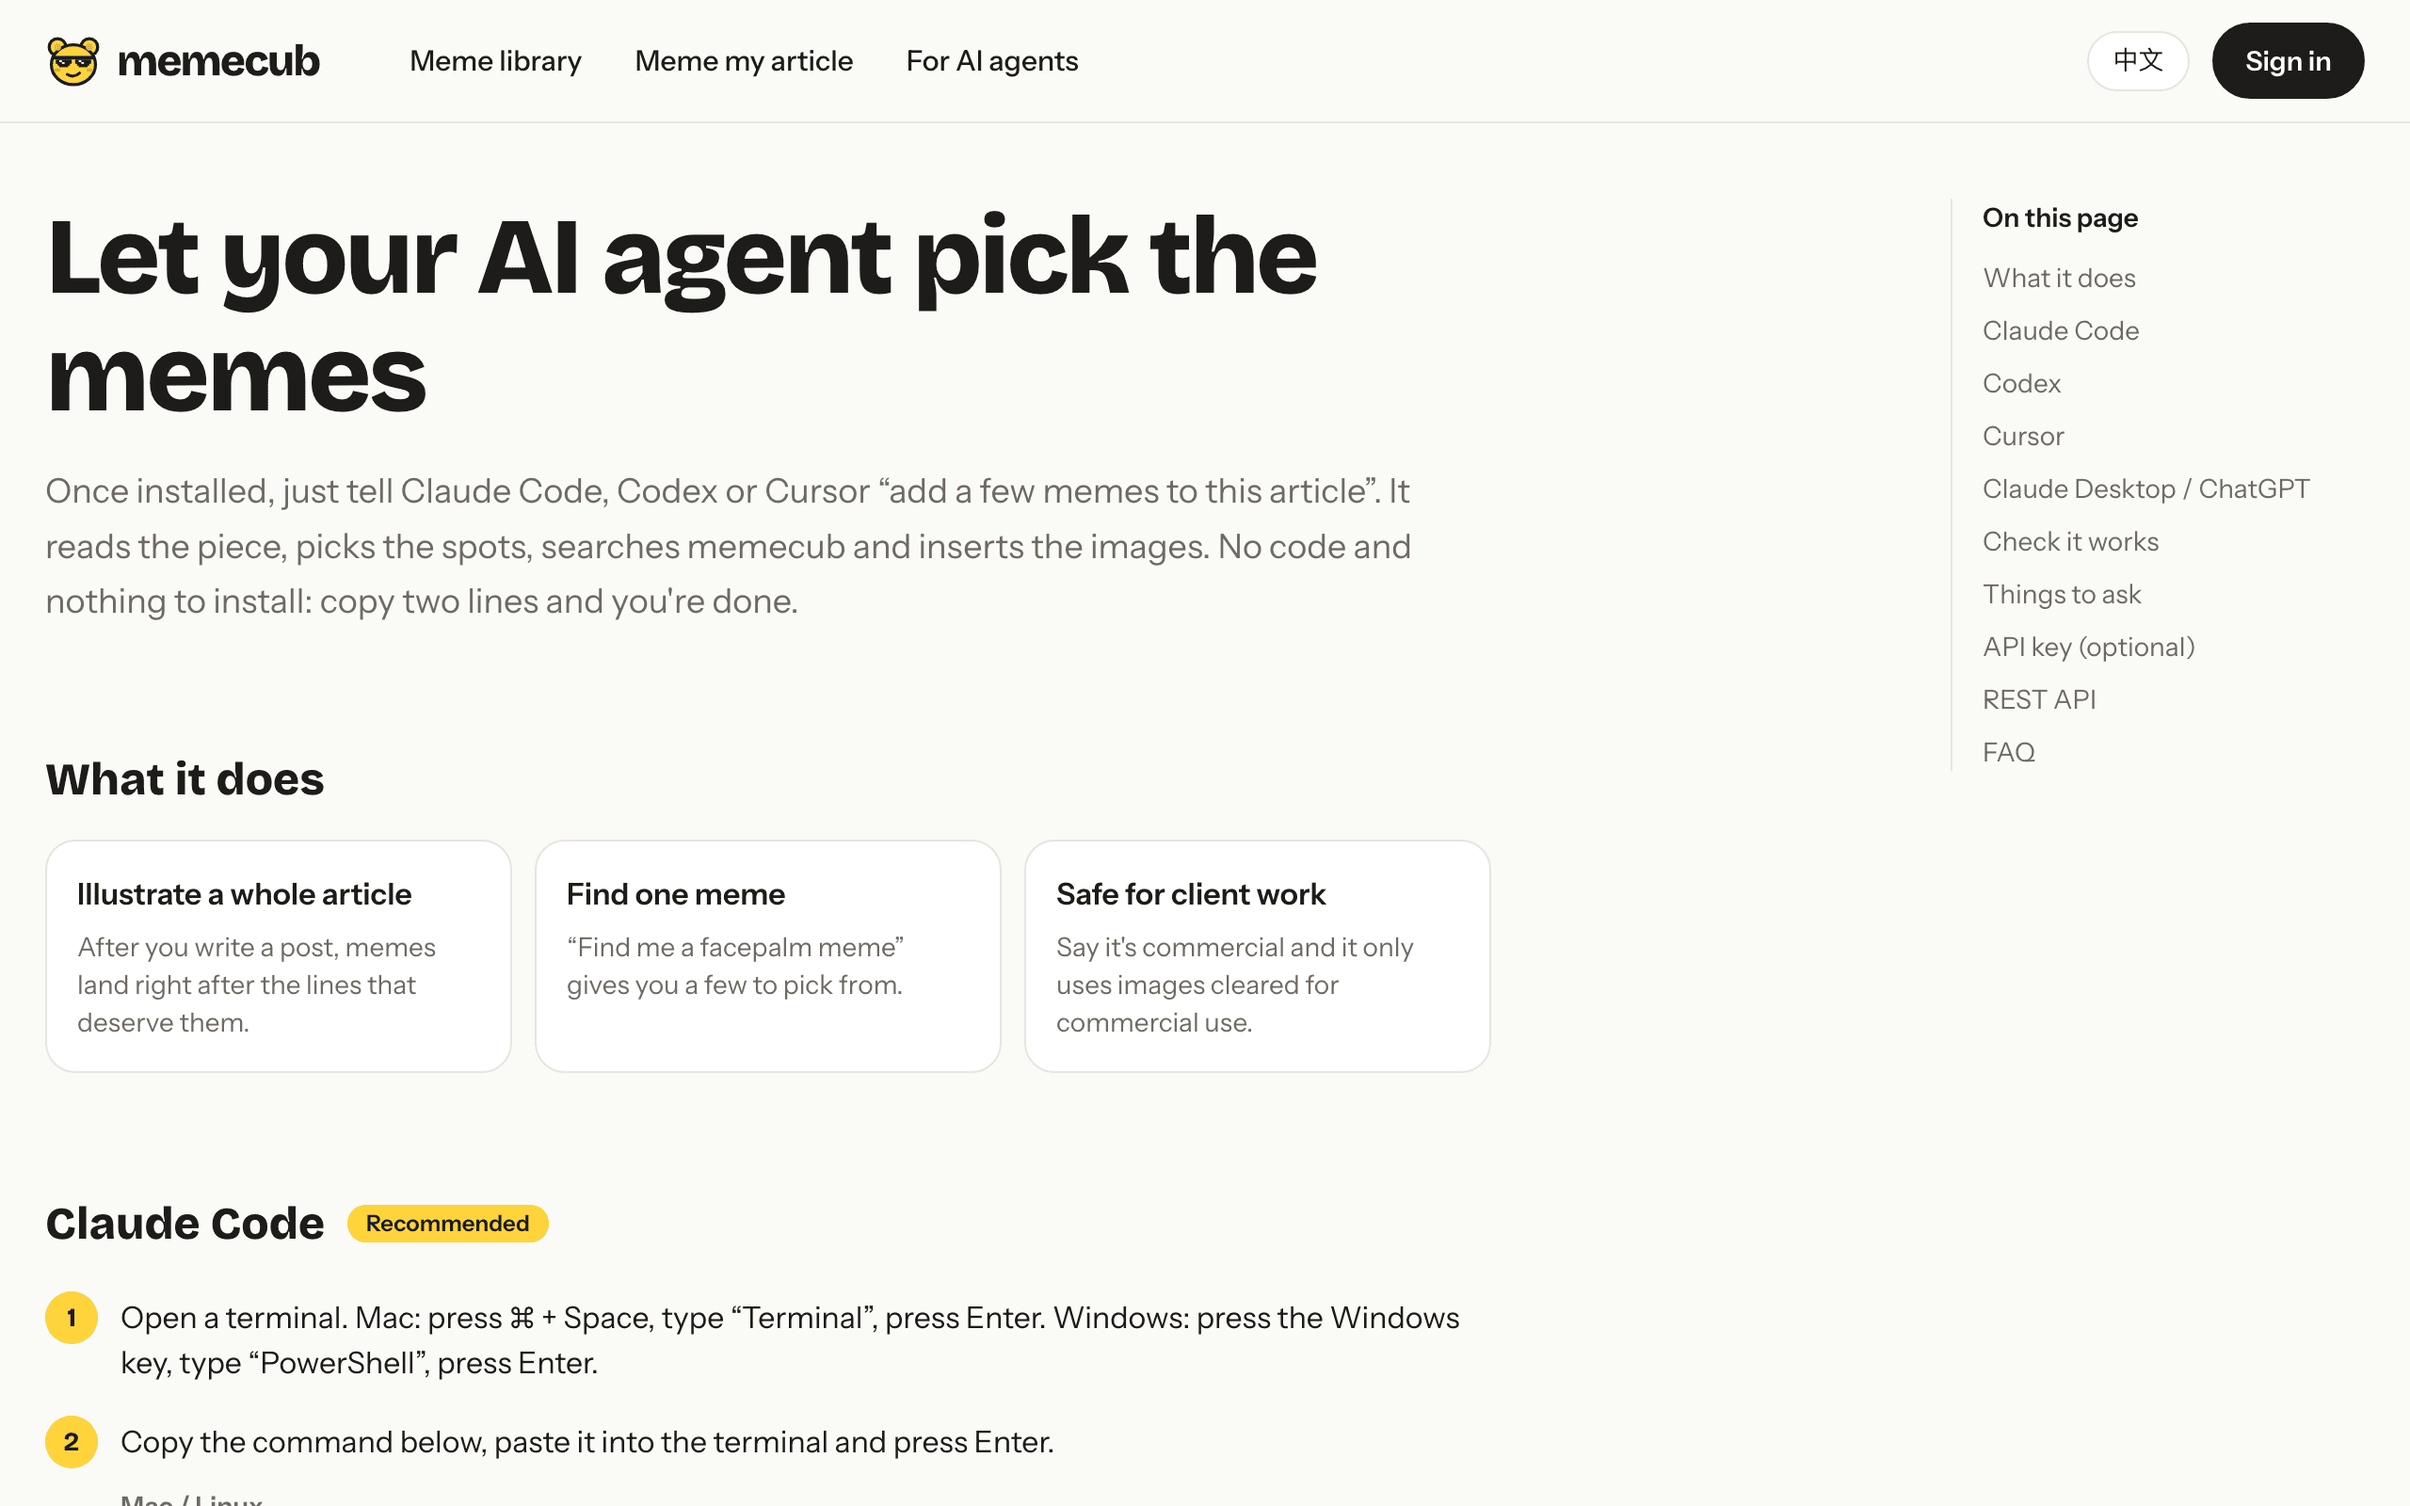
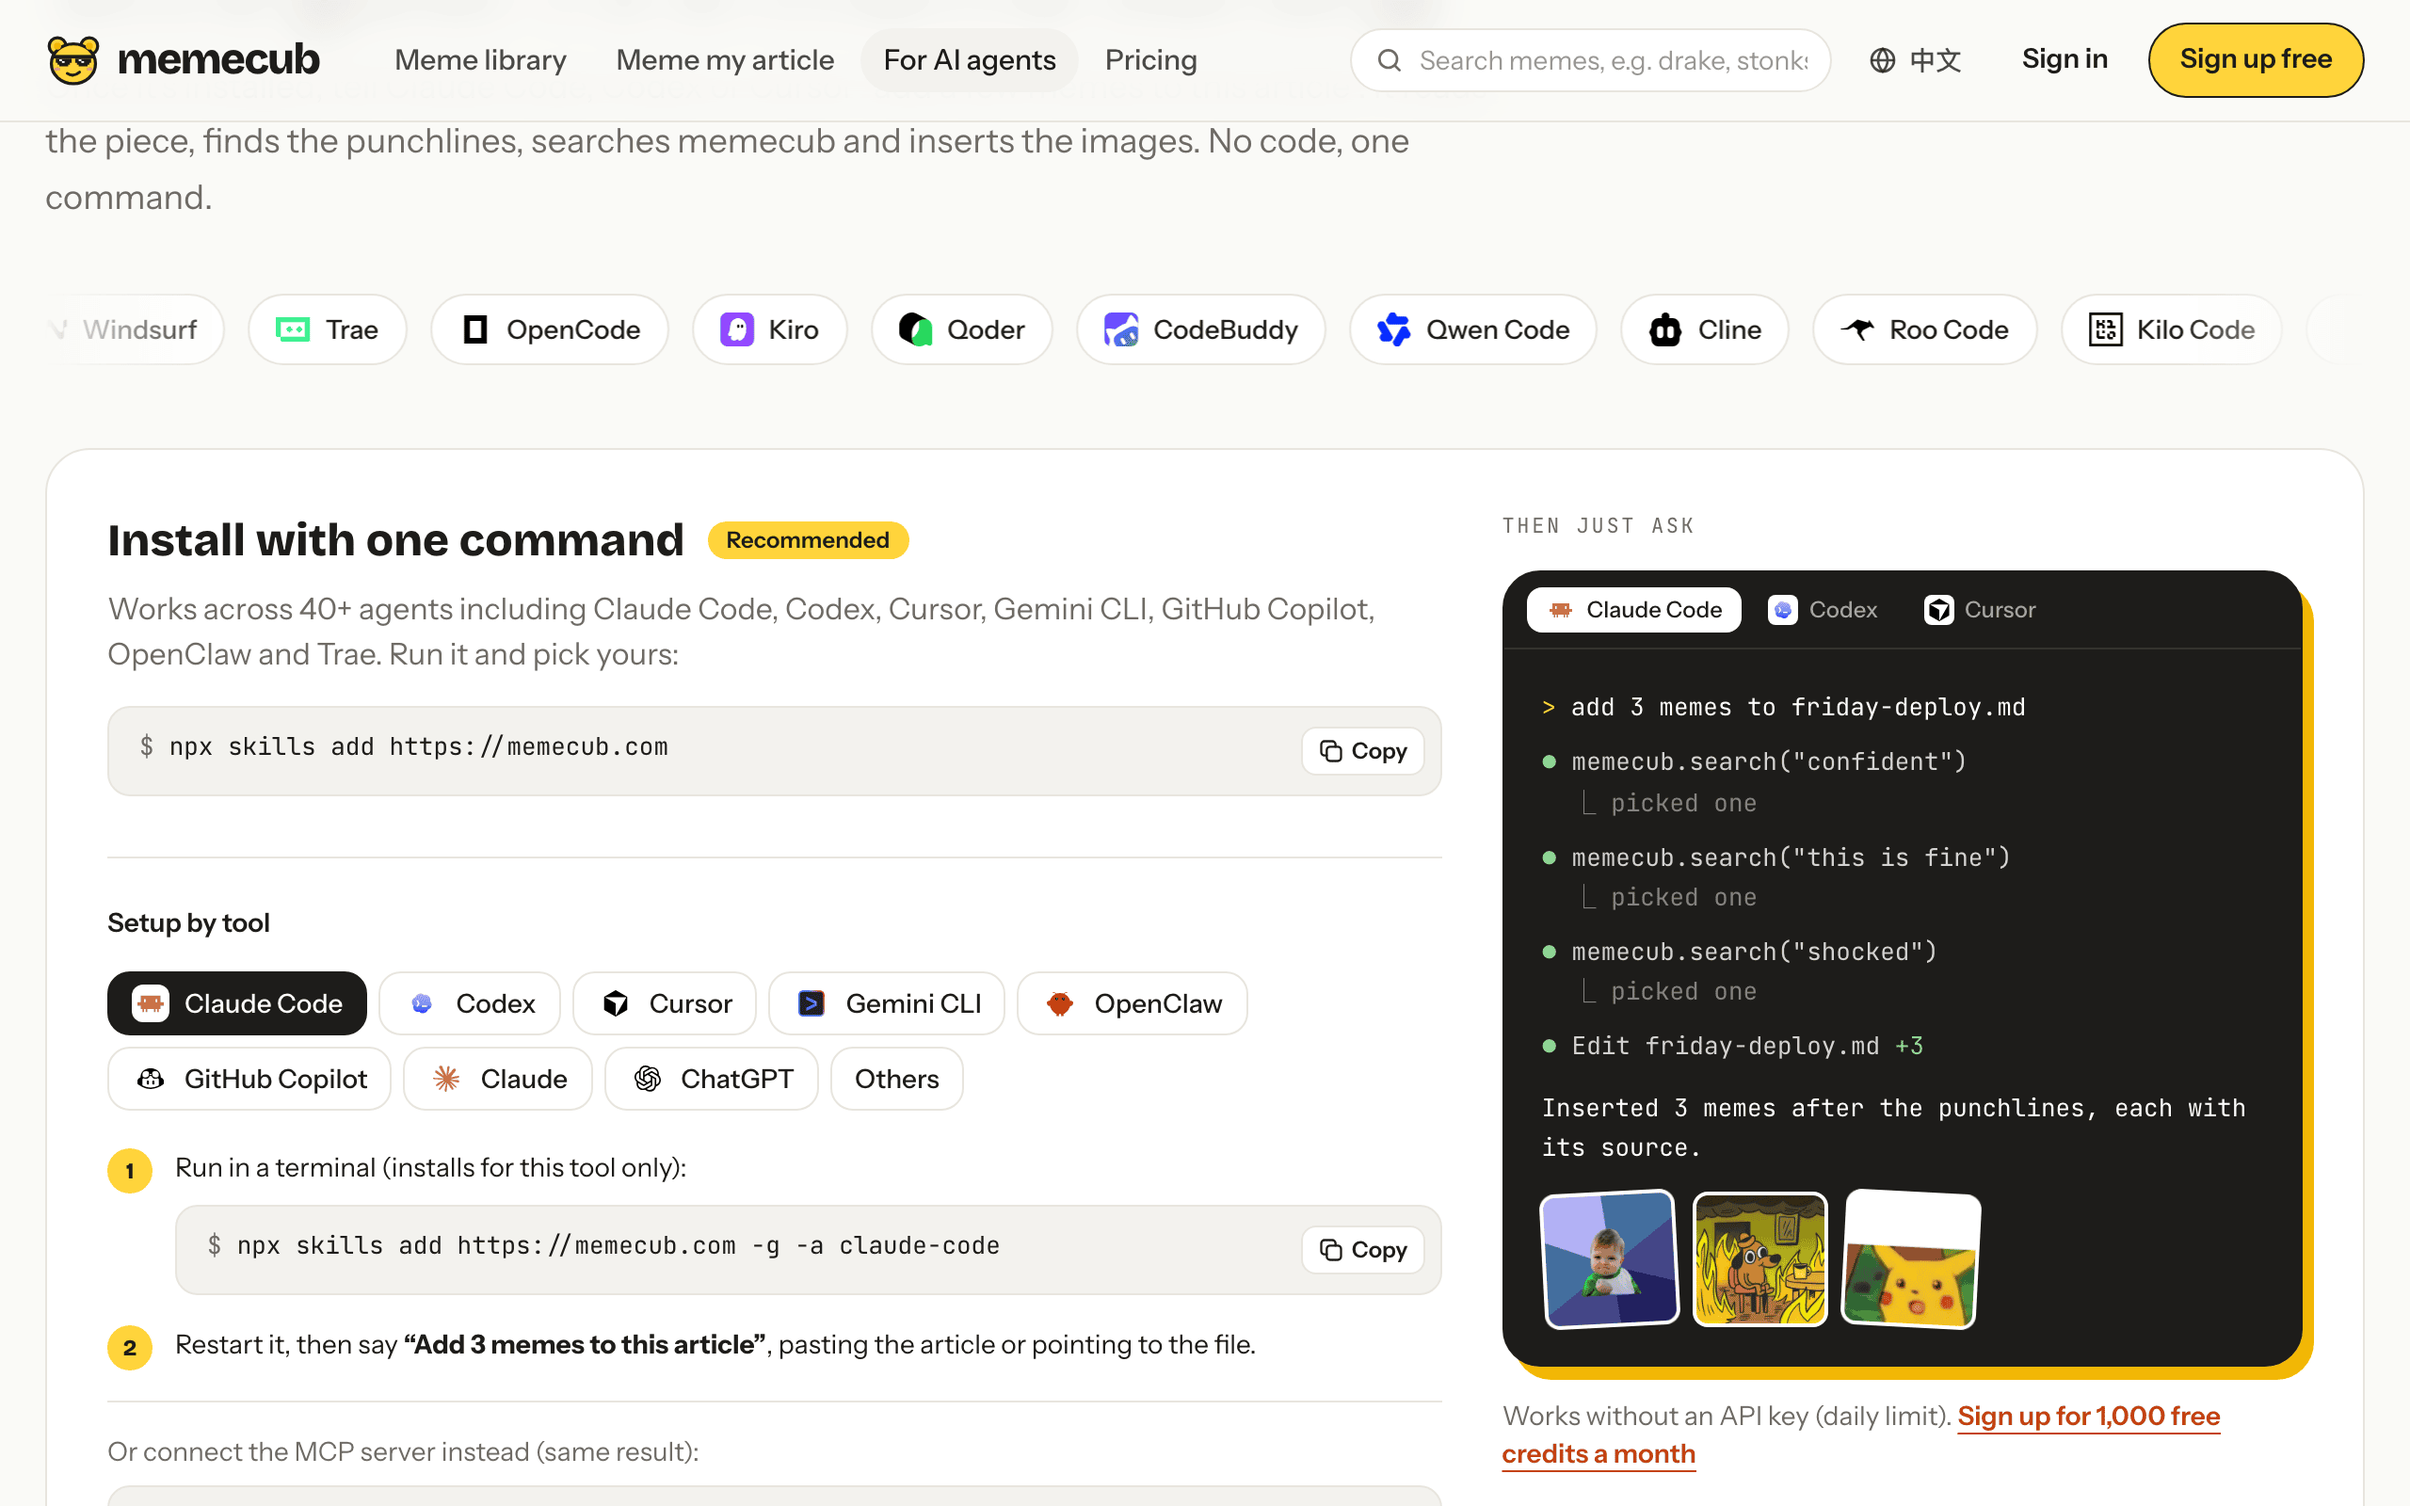
One-command install via npx skills add https://memecub.com; Codex, Gemini CLI and ChatGPT setup; new site screenshots

diff --git a/README.zh-CN.md b/README.zh-CN.md
@@ -34,12 +34,30 @@
 
 ## 快速开始
 
-服务地址是 `https://memecub.com/mcp`，按你用的客户端选一种：
+**一行命令，40 多款 Agent 通用。** 给 Claude Code、Codex、Cursor、Gemini CLI、GitHub Copilot、OpenClaw、Trae、Windsurf 等支持 [Agent Skill](#agent-skill) 的工具装上 memecub：
+
+```bash
+npx skills add https://memecub.com
+```
+
+想用 MCP 的话，服务地址是 `https://memecub.com/mcp`（Streamable HTTP），按你用的客户端选一种：
 
 **Claude Code**
 
 ```bash
 claude mcp add --transport http memecub https://memecub.com/mcp
+```
+
+**Codex**
+
+```bash
+codex mcp add memecub --url https://memecub.com/mcp
+```
+
+**Gemini CLI**
+
+```bash
+gemini mcp add --transport http memecub https://memecub.com/mcp
 ```
 
 **Cursor**（`~/.cursor/mcp.json`）
@@ -54,9 +72,11 @@ claude mcp add --transport http memecub https://memecub.com/mcp
 { "servers": { "memecub": { "type": "http", "url": "https://memecub.com/mcp" } } }
 ```
 
-**Claude Desktop / claude.ai**：设置 → Connectors → Add custom connector → `https://memecub.com/mcp`
+**Claude Desktop / claude.ai**：设置 → 连接器（Connectors）→ 添加自定义连接器 → `https://memecub.com/mcp`
 
-**Codex** 以及其他支持 Skill 的 Agent：用下面的 [Agent Skill](#agent-skill)。
+**ChatGPT**：设置 → 应用与连接器 → 高级设置，打开开发者模式，再创建连接器，地址填 `https://memecub.com/mcp`
+
+Cherry Studio、Dify、n8n 等支持远程 MCP 的客户端同理。每款工具的图文教程见 [memecub.com/zh/developers](https://memecub.com/zh/developers)。
 
 装好之后直接说：
 
@@ -79,11 +99,15 @@ claude mcp add --transport http memecub https://memecub.com/mcp
 
 ## Agent Skill
 
-[`skills/memecub/SKILL.md`](skills/memecub/SKILL.md) 教 Agent 只用 `curl` 给文章配表情包，不需要 MCP，也不用装任何依赖，Claude Code、Codex、Cursor 都能用。
+[`skills/memecub/SKILL.md`](skills/memecub/SKILL.md) 教 Agent 只用 `curl` 给文章配表情包，不需要 MCP，也不用装任何依赖。
 
 ```bash
-npx skills add liyupi/memecub
+npx skills add https://memecub.com                  # 运行后选择要装给哪些 Agent
+npx skills add https://memecub.com -g -a claude-code  # 或者只装给一个：codex、cursor、gemini-cli、openclaw…
+npx skills add liyupi/memecub                       # 同一个 Skill，从本仓库安装
 ```
+
+memecub.com 在 [`/.well-known/agent-skills/index.json`](https://memecub.com/.well-known/agent-skills/index.json) 发布了这个 Skill，所以直接写网址就能装。
 
 或者手动安装：
 

diff --git a/README.md b/README.md
@@ -34,12 +34,30 @@ English · [简体中文](README.zh-CN.md)
 
 ## Quick start
 
-The server is `https://memecub.com/mcp`. Pick your client:
+**One command, 40+ agents.** Installs the memecub skill into Claude Code, Codex, Cursor, Gemini CLI, GitHub Copilot, OpenClaw, Trae, Windsurf and any other agent that loads [Agent Skills](#agent-skill):
+
+```bash
+npx skills add https://memecub.com
+```
+
+Prefer MCP? The server is `https://memecub.com/mcp` (Streamable HTTP). Pick your client:
 
 **Claude Code**
 
 ```bash
 claude mcp add --transport http memecub https://memecub.com/mcp
+```
+
+**Codex**
+
+```bash
+codex mcp add memecub --url https://memecub.com/mcp
+```
+
+**Gemini CLI**
+
+```bash
+gemini mcp add --transport http memecub https://memecub.com/mcp
 ```
 
 **Cursor** (`~/.cursor/mcp.json`)
@@ -56,7 +74,9 @@ claude mcp add --transport http memecub https://memecub.com/mcp
 
 **Claude Desktop / claude.ai**: Settings → Connectors → Add custom connector → `https://memecub.com/mcp`
 
-**Codex** and any agent that reads skills: use the [Agent Skill](#agent-skill) below.
+**ChatGPT**: Settings → Apps & Connectors → Advanced → turn on developer mode, then create a connector with `https://memecub.com/mcp`
+
+Cherry Studio, Dify, n8n and other clients that take a remote MCP server work the same way. Step-by-step guides for each tool: [memecub.com/developers](https://memecub.com/developers).
 
 Then just ask:
 
@@ -79,11 +99,15 @@ You can try it without a key (20 searches a day per IP). Add `Authorization: Bea
 
 ## Agent skill
 
-[`skills/memecub/SKILL.md`](skills/memecub/SKILL.md) teaches an agent to place memes into writing with plain `curl`. No MCP, no dependencies, works in Claude Code, Codex and Cursor.
+[`skills/memecub/SKILL.md`](skills/memecub/SKILL.md) teaches an agent to place memes into writing with plain `curl`. No MCP, no dependencies.
 
 ```bash
-npx skills add liyupi/memecub
+npx skills add https://memecub.com                  # pick your agents interactively
+npx skills add https://memecub.com -g -a claude-code  # or target one: codex, cursor, gemini-cli, openclaw…
+npx skills add liyupi/memecub                       # same skill, from this repo
 ```
+
+memecub.com publishes the skill at [`/.well-known/agent-skills/index.json`](https://memecub.com/.well-known/agent-skills/index.json), so the site URL is enough.
 
 Or by hand:
 
